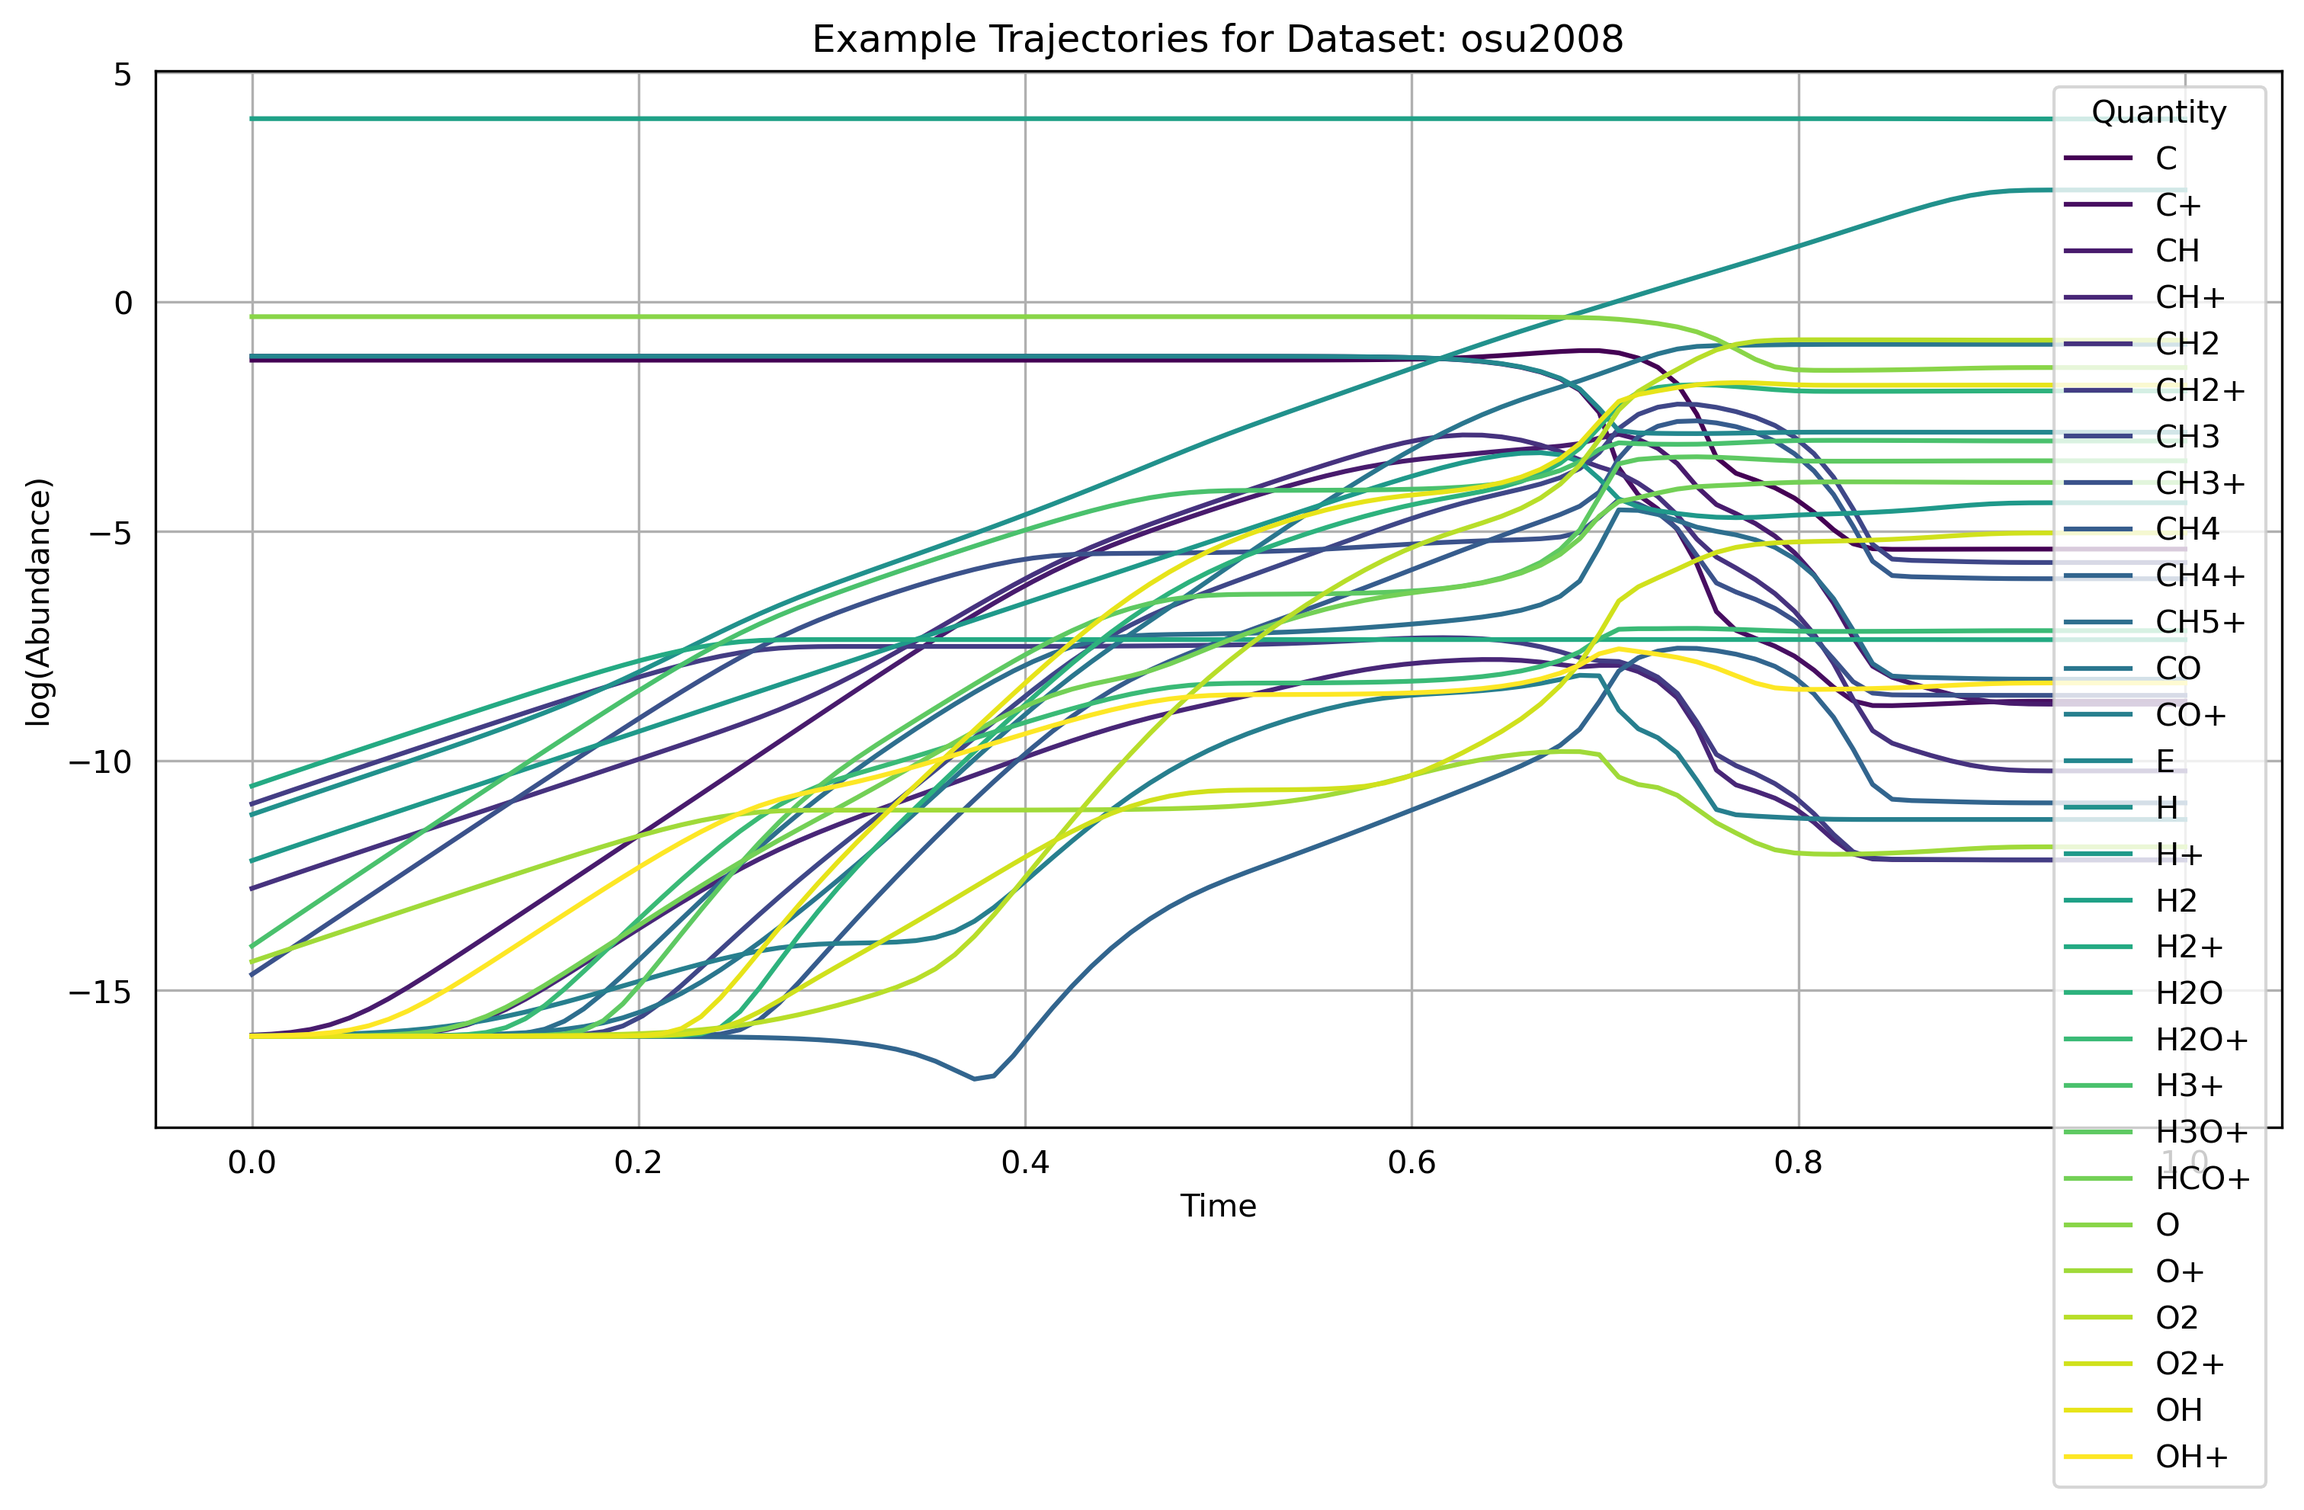
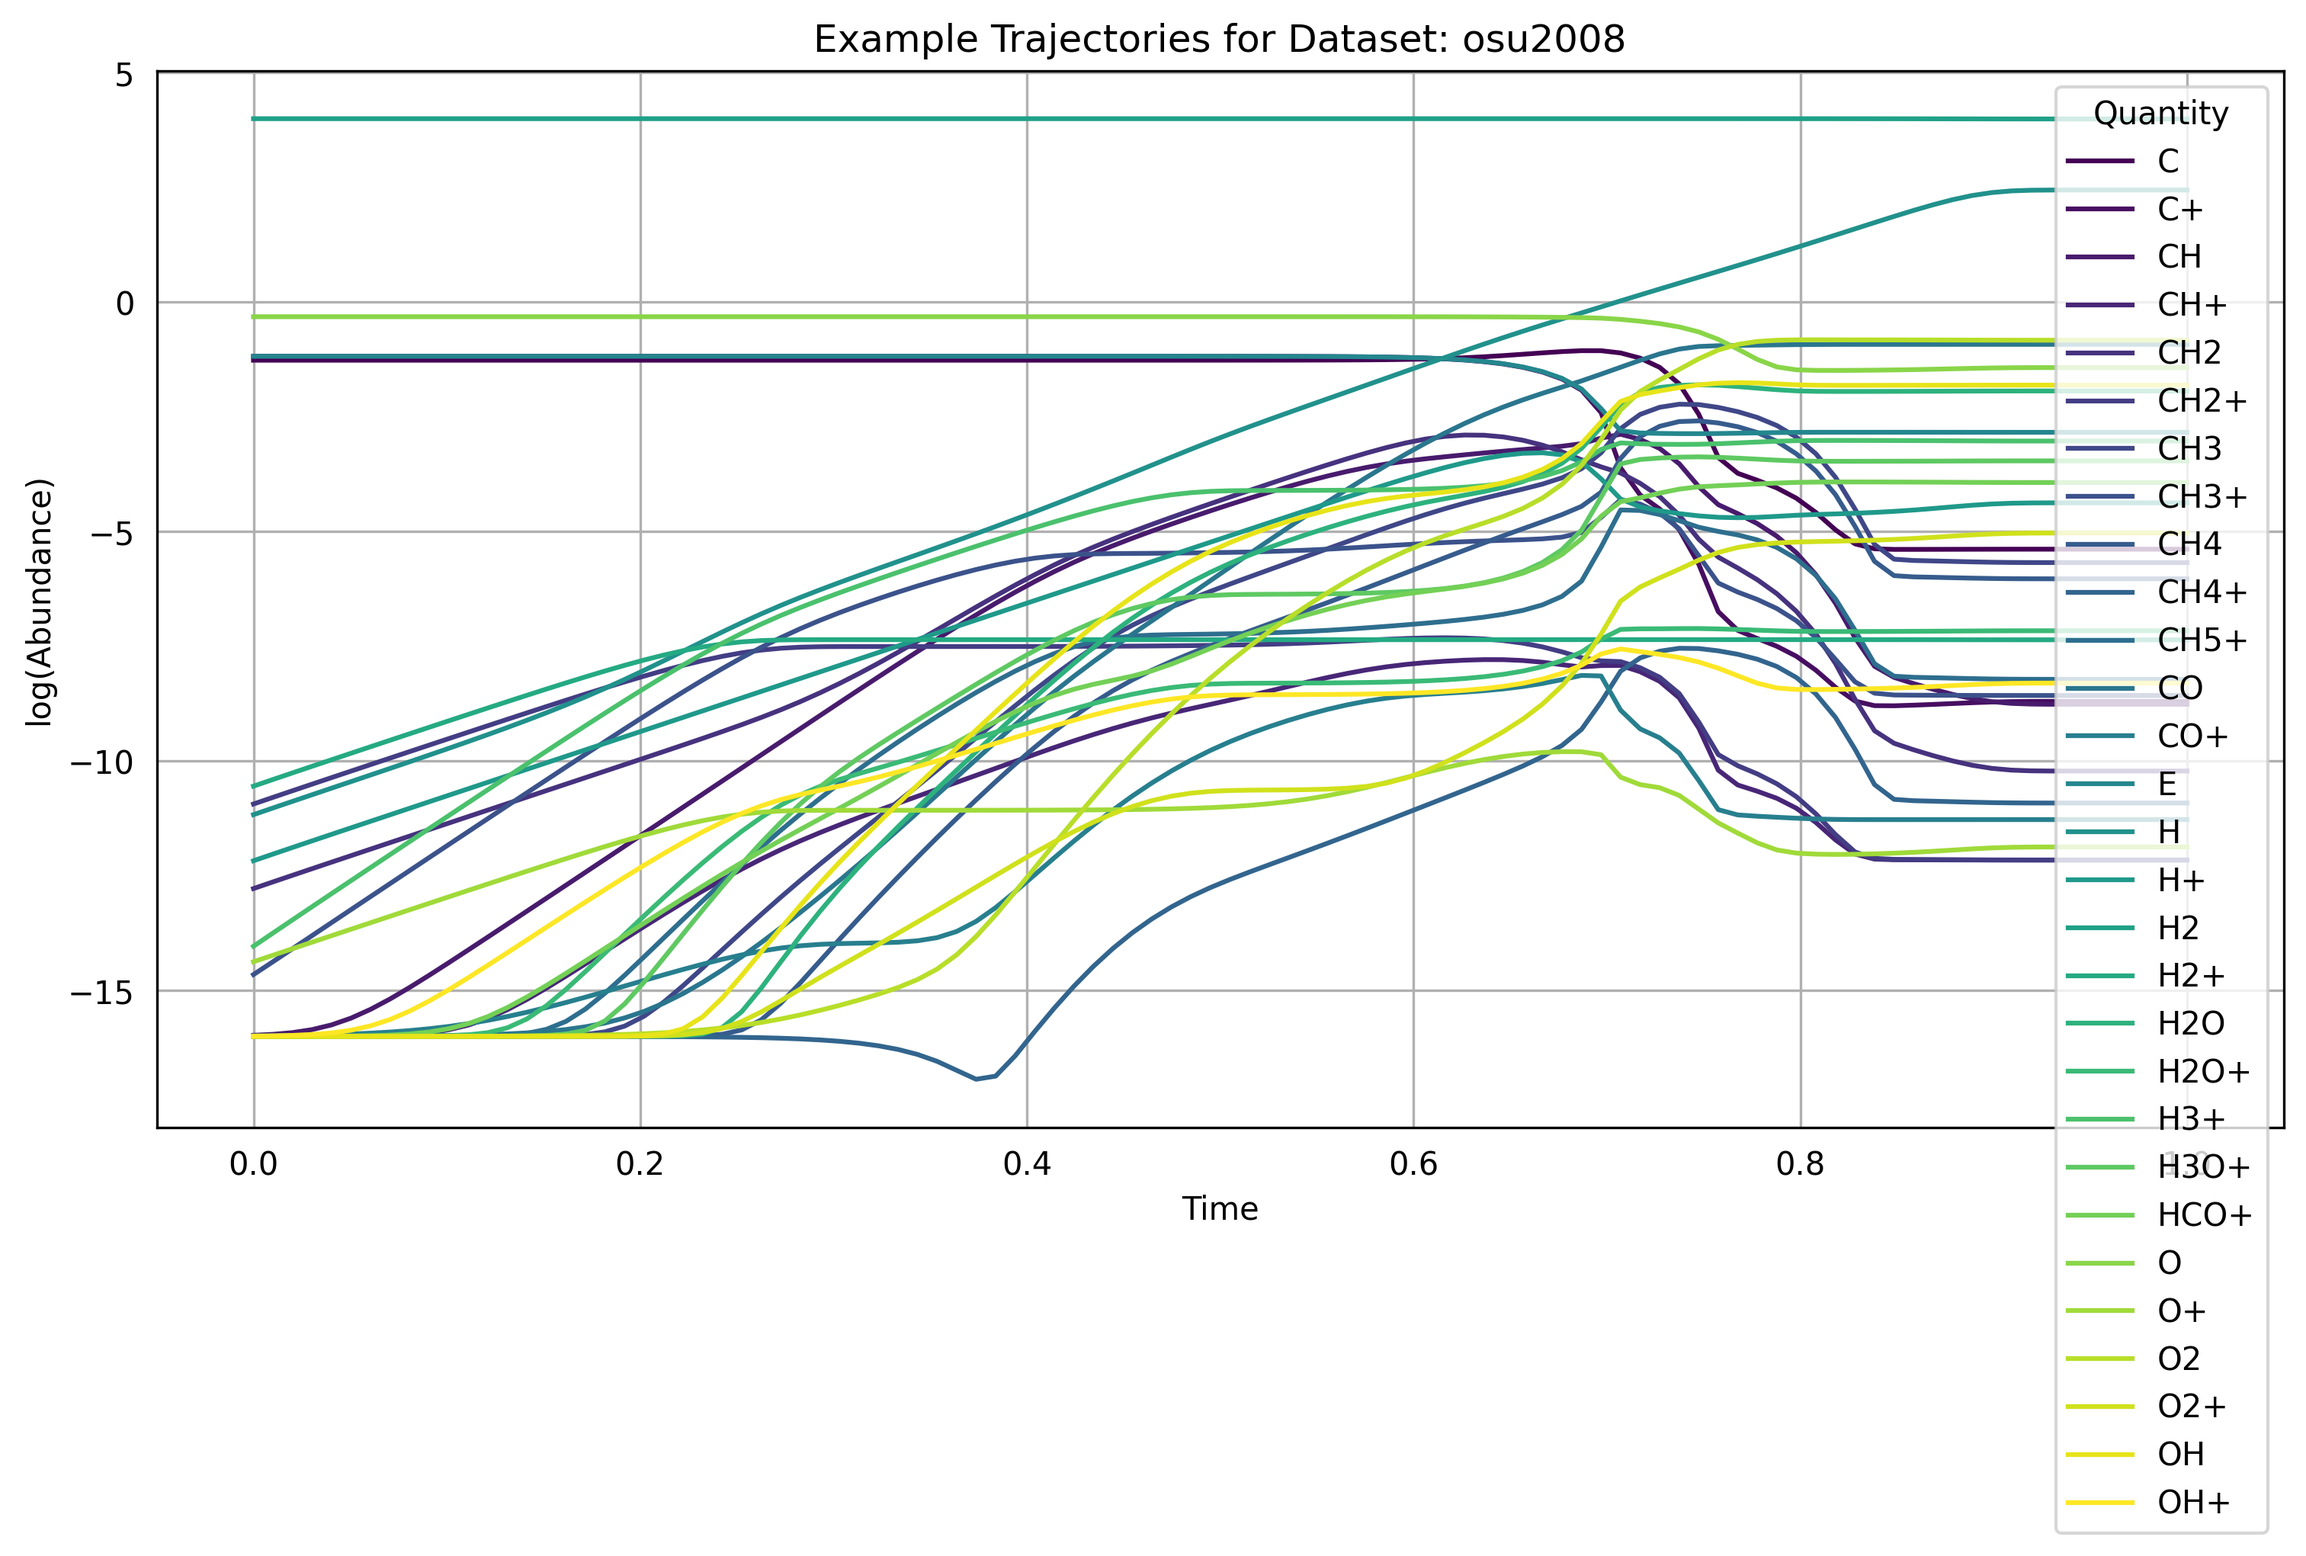
Add poster plot for the NeurIPS poster

diff --git a/datasets/data_analysis/data_plots.py b/datasets/data_analysis/data_plots.py
@@ -215,6 +215,143 @@ def plot_example_trajectories_paper(
     plt.show()
 
 
+def plot_example_trajectories_poster(
+    dataset_name: str,
+    data: np.ndarray,
+    timesteps: np.ndarray,
+    save: bool = False,
+    sample_idx: int = 0,
+    labels: list[str] | None = None,
+) -> None:
+    """
+    Plot example trajectories for the dataset with two subplots, one showing 15 chemicals and another showing the remaining.
+
+    Args:
+        dataset_name (str): The name of the dataset.
+        data (np.ndarray): The data to plot.
+        timesteps (np.ndarray): Timesteps array.
+        save (bool, optional): Whether to save the plot as a file.
+        sample_idx (int, optional): Index of the sample to plot.
+        labels (list, optional): List of labels for the chemicals.
+    """
+    # Ensure we are plotting the correct sample
+    data = data[sample_idx]
+
+    # Define the number of chemicals per subplot
+    total_chemicals = data.shape[1]
+    num_chemicals_subplots = [
+        total_chemicals // 2,
+        total_chemicals - total_chemicals // 2,
+    ]
+
+    # Ensure the labels list matches the number of chemicals
+    if labels is not None:
+        assert (
+            len(labels) == total_chemicals
+        ), "Labels must match the number of chemicals."
+
+    # Create subplots
+    fig, (ax1, ax2) = plt.subplots(
+        1, 2, figsize=(10, 4), sharey=True
+    )  # Reduced horizontal width
+
+    # Define color palettes
+    colors1 = plt.cm.viridis(
+        np.linspace(0, 0.95, num_chemicals_subplots[0])
+    )  # First 15 chemicals
+    colors2 = plt.cm.viridis(
+        np.linspace(0, 0.95, num_chemicals_subplots[1])
+    )  # Remaining 14 chemicals
+
+    # Plot first set of chemicals on ax1
+    for chem_idx in range(num_chemicals_subplots[0]):
+        color = colors1[chem_idx]
+        gt = data[:, chem_idx]
+        label = labels[chem_idx] if labels is not None else f"Chemical {chem_idx + 1}"
+        ax1.plot(timesteps, gt, "-", color=color, label=label)
+
+    # Plot second set of chemicals on ax2
+    for chem_idx in range(num_chemicals_subplots[0], total_chemicals):
+        color = colors2[chem_idx - num_chemicals_subplots[0]]
+        gt = data[:, chem_idx]
+        label = labels[chem_idx] if labels is not None else f"Chemical {chem_idx + 1}"
+        ax2.plot(timesteps, gt, "-", color=color, label=label)
+
+    # Set labels and title
+    ax1.set_xlabel("Time", fontsize=12)  # Increased font size
+    ax1.set_ylabel("log(Chemical Abundance)", fontsize=12)  # Increased font size
+    ax2.set_xlabel("Time", fontsize=12)  # Increased font size
+
+    # Remove individual subplot titles and add a global title
+    fig.suptitle(
+        r"Example Trajectories: $\tt{osu2008}$ Dataset", fontsize=14
+    )  # Slightly larger title
+    # fig.subplots_adjust(wspace=0.05)  # Adjust space between subplots
+
+    # Place the legend of the left plot between the two subplots
+    handles1, labels1 = ax1.get_legend_handles_labels()
+    ax1.legend(
+        handles1,
+        labels1,
+        loc="center left",
+        bbox_to_anchor=(1, 0.5),
+        ncol=1,
+        frameon=False,
+        fontsize=10,  # Increased font size for legend
+    )
+
+    # Legend for the second plot can stay outside on the right if needed
+    handles2, labels2 = ax2.get_legend_handles_labels()
+    ax2.legend(
+        handles2,
+        labels2,
+        loc="center left",
+        bbox_to_anchor=(1, 0.5),
+        ncol=1,
+        frameon=False,
+        fontsize=10,  # Increased font size for legend
+    )
+
+    # Add grid to both subplots
+    ax1.grid(True)
+    ax2.grid(True)
+
+    # Set x-axis limits tightly
+    for ax in [ax1, ax2]:
+        ax.set_xlim(timesteps.min(), timesteps.max())
+
+    # Remove tick marks but keep labels and gridlines
+    ax1.tick_params(
+        axis="both", which="both", length=0, labelsize=10
+    )  # Adjust tick label size
+    ax2.tick_params(
+        axis="both", which="both", length=0, labelsize=10
+    )  # Adjust tick label size
+
+    # Adjust layout to make room for the legend between the subplots
+    plt.tight_layout(rect=[0, 0, 1, 1])  # Adjust the rect parameter
+
+    # Save the plot if required
+    if save:
+        # Create a dummy conf dictionary
+        conf = {
+            "training_id": dataset_name.lower(),  # Use dataset_name as the training_id
+            "verbose": True,
+        }
+
+        # Call save_plot with the dummy conf
+        save_plot(
+            plt,
+            "example_trajectories_poster.png",
+            conf,
+            dpi=300,
+            base_dir="datasets",
+            increase_count=False,
+        )
+
+    plt.show()
+
+
 def plot_initial_conditions_distribution(
     dataset_name: str,
     train_data: np.ndarray,

diff --git a/datasets/data_analysis/analyse_dataset.py b/datasets/data_analysis/analyse_dataset.py
@@ -17,6 +17,7 @@ from datasets.data_analysis.data_plots import (
     plot_all_trajectories_over_time,
     plot_average_gradients_over_time,
     plot_example_trajectories,
+    plot_example_trajectories_poster,
     plot_initial_conditions_distribution,
 )
 
@@ -57,6 +58,15 @@ def main(args):
         log=log,
     )
 
+    plot_example_trajectories_poster(
+        args.dataset,
+        full_train_data,
+        timesteps,
+        save=True,
+        labels=labels,
+        sample_idx=7,
+    )
+
     # Plot initial conditions distribution
     plot_initial_conditions_distribution(
         args.dataset,
@@ -92,7 +102,7 @@ def main(args):
 if __name__ == "__main__":
     parser = ArgumentParser()
     parser.add_argument(
-        "--dataset", default="branca_norad", type=str, help="Name of the dataset."
+        "--dataset", default="osu2008", type=str, help="Name of the dataset."
     )
     args = parser.parse_args()
     main(args)
